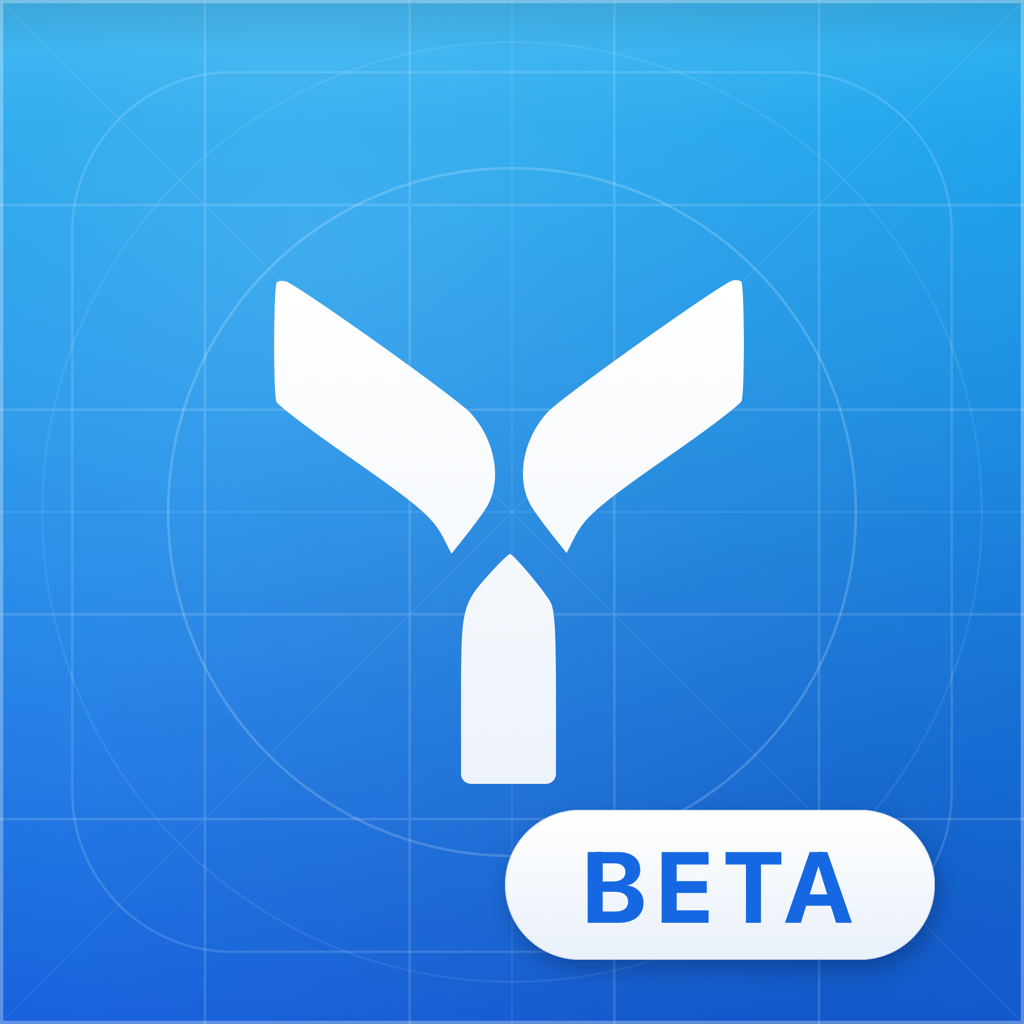
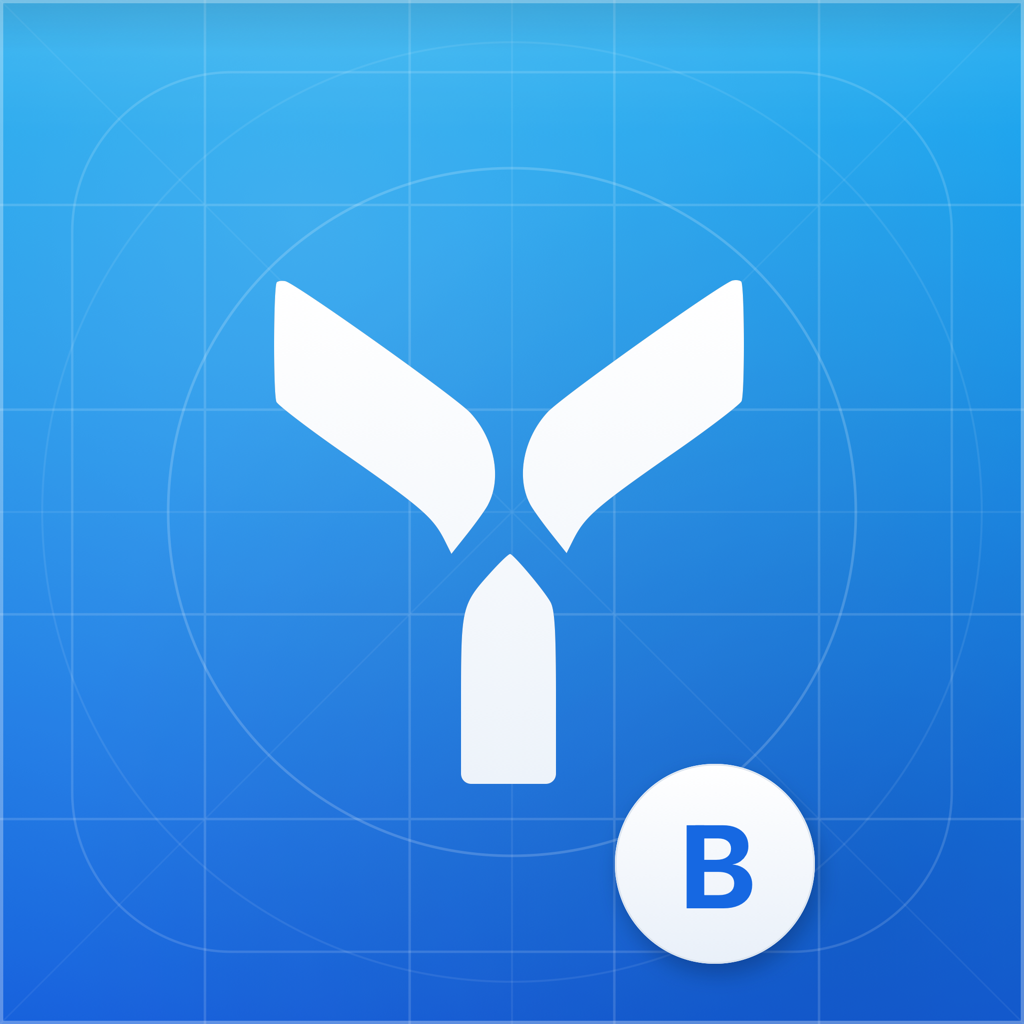
refine(brand): single artwork with a round B badge
Drops the dark variant: one artwork serves both appearances (the dark dock
slot reuses the light file). The BETA pill becomes a circular badge with a
single B, which stays legible at small sizes. Generator updated.

Changed region(s): [[0.4688, 0.7188, 0.9375, 0.9688], [0.6875, 0.9375, 0.7188, 0.9688]]

diff --git a/assets/beta/generate-beta-icon.swift b/assets/beta/generate-beta-icon.swift
@@ -18,8 +18,6 @@ struct Palette {
 
 // Light: exact Xcode 26 stop colors.
 let light = Palette(top: 0x18A9EE, upperMid: 0x1895EA, lowerMid: 0x1778E4, bottom: 0x1560DC, mark: 0xFFFFFF)
-// Dark appearance: deeper sibling of the same ramp.
-let dark = Palette(top: 0x14549E, upperMid: 0x11489C, lowerMid: 0x0C3A8C, bottom: 0x072E6B, mark: 0xFFFFFF)
 
 func cg(_ hex: UInt32, _ a: CGFloat = 1) -> CGColor {
   CGColor(srgbRed: CGFloat((hex >> 16) & 0xFF) / 255, green: CGFloat((hex >> 8) & 0xFF) / 255, blue: CGFloat(hex & 0xFF) / 255, alpha: a)
@@ -168,37 +166,36 @@ func drawIcon(_ p: Palette, name: String) {
 
   ctx.restoreGState()
 
-  // BETA pill: inside the dock mask, bottom right
-  let pillRect = CGRect(x: 1010, y: 128, width: 860, height: 300)
+  // B badge: circular, bottom-right, inside the dock mask
+  let badgeRect = CGRect(x: 1230, y: 120, width: 400, height: 400)
   ctx.saveGState()
   ctx.setShadow(offset: CGSize(width: 8, height: -20), blur: 46, color: cg(0x03183A, 0.32))
-  ctx.addPath(CGPath(roundedRect: pillRect, cornerWidth: 150, cornerHeight: 150, transform: nil))
+  ctx.addPath(CGPath(ellipseIn: badgeRect, transform: nil))
   ctx.setFillColor(cg(0xFFFFFF))
   ctx.fillPath()
   ctx.restoreGState()
   ctx.saveGState()
-  ctx.addPath(CGPath(roundedRect: pillRect, cornerWidth: 150, cornerHeight: 150, transform: nil))
+  ctx.addPath(CGPath(ellipseIn: badgeRect, transform: nil))
   ctx.clip()
   if let g = CGGradient(colorsSpace: cs, colors: [cg(0xFFFFFF), cg(0xE9F0F9)] as CFArray, locations: [0, 1]) {
-    ctx.drawLinearGradient(g, start: CGPoint(x: 0, y: pillRect.maxY), end: CGPoint(x: 0, y: pillRect.minY), options: [])
+    ctx.drawLinearGradient(g, start: CGPoint(x: 0, y: badgeRect.maxY), end: CGPoint(x: 0, y: badgeRect.minY), options: [])
   }
   ctx.restoreGState()
   ctx.saveGState()
-  ctx.addPath(CGPath(roundedRect: pillRect.insetBy(dx: 1, dy: 1), cornerWidth: 149, cornerHeight: 149, transform: nil))
+  ctx.addPath(CGPath(ellipseIn: badgeRect.insetBy(dx: 2, dy: 2), transform: nil))
   ctx.setStrokeColor(cg(0xD7E0EC, 0.9))
-  ctx.setLineWidth(2)
+  ctx.setLineWidth(2.5)
   ctx.strokePath()
   ctx.restoreGState()
 
-  let font = NSFont.systemFont(ofSize: 200, weight: .bold)
+  let font = NSFont.systemFont(ofSize: 235, weight: .bold)
   let attrs: [NSAttributedString.Key: Any] = [
     .font: font,
     .foregroundColor: NSColor(srgbRed: 0x16 / 255.0, green: 0x68 / 255.0, blue: 0xE2 / 255.0, alpha: 1),
-    .kern: 20,
   ]
-  let text = NSAttributedString(string: "BETA", attributes: attrs)
+  let text = NSAttributedString(string: "B", attributes: attrs)
   let size = text.size()
-  let rect = CGRect(x: pillRect.minX + (pillRect.width - size.width) / 2 + 6, y: pillRect.minY + (pillRect.height - size.height) / 2, width: size.width, height: size.height)
+  let rect = CGRect(x: badgeRect.midX - size.width / 2 + 6, y: badgeRect.midY - size.height / 2, width: size.width, height: size.height)
   NSGraphicsContext.saveGraphicsState()
   NSGraphicsContext.current = NSGraphicsContext(cgContext: ctx, flipped: false)
   text.draw(in: rect)
@@ -221,4 +218,3 @@ func drawIcon(_ p: Palette, name: String) {
 }
 
 drawIcon(light, name: "assets/beta/beta-macos-1024")
-drawIcon(dark, name: "assets/beta/beta-macos-legacy-dark-1024")

diff --git a/scripts/lib/brand-assets.ts b/scripts/lib/brand-assets.ts
@@ -17,7 +17,8 @@ export const BRAND_ASSET_PATHS = {
 export const BETA_ASSET_PATHS = {
   betaMacIconPng: "assets/beta/beta-macos-1024.png",
   betaMacLegacyIconPng: "assets/beta/beta-macos-legacy-1024.png",
-  betaMacLegacyDarkIconPng: "assets/beta/beta-macos-legacy-dark-1024.png",
+  // One artwork serves both appearances: the dark dock slot reuses the light file.
+  betaMacLegacyDarkIconPng: "assets/beta/beta-macos-1024.png",
   betaLinuxIconPng: "assets/beta/beta-universal-1024.png",
   betaWindowsIconIco: "assets/beta/beta-windows.ico",
   betaWebFaviconIco: "assets/beta/beta-web-favicon.ico",
